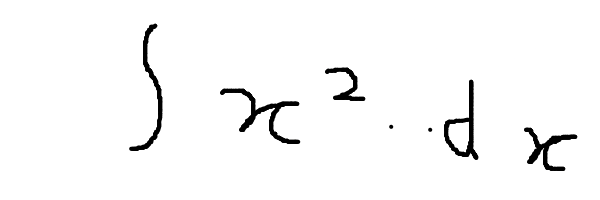
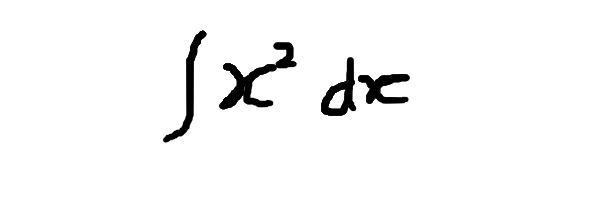
feat: Smoothing to the canvas

diff --git a/src/frontend/app.js b/src/frontend/app.js
@@ -45,47 +45,86 @@ const visualMathField = MQ.MathField(document.getElementById('visualMathEditor')
 });
 
 // ==========================================
-// 3. CANVAS DRAWING LOGIC (White Background is strictly required for OCR)
+// 3. CANVAS DRAWING LOGIC (Smooth Calligraphy & Accurate Pointer)
 // ==========================================
 function initCanvas() {
     ctx.fillStyle = "white";
     ctx.fillRect(0, 0, canvas.width, canvas.height);
-    ctx.lineWidth = 4;
-    ctx.lineCap = 'round';
-    ctx.strokeStyle = 'black';
 }
 initCanvas();
+
+let lastPos = null;
+
+// The vital math to fix the misaligned pointer
+function getPointerPos(e) {
+    const rect = canvas.getBoundingClientRect();
+    // Handle both mouse and touch seamlessly
+    const clientX = e.clientX || (e.touches && e.touches[0].clientX);
+    const clientY = e.clientY || (e.touches && e.touches[0].clientY);
+
+    // Map the CSS screen pixels to the internal Canvas pixels perfectly
+    const scaleX = canvas.width / rect.width;
+    const scaleY = canvas.height / rect.height;
+
+    return {
+        x: (clientX - rect.left) * scaleX,
+        y: (clientY - rect.top) * scaleY
+    };
+}
 
 canvas.addEventListener('mousedown', startPosition);
 canvas.addEventListener('mouseup', endPosition);
 canvas.addEventListener('mousemove', draw);
-// Touch support
-canvas.addEventListener('touchstart', (e) => { e.preventDefault(); startPosition(e.touches[0]); });
+// Touch support for mobile/tablets
+canvas.addEventListener('touchstart', (e) => { e.preventDefault(); startPosition(e); });
 canvas.addEventListener('touchend', (e) => { e.preventDefault(); endPosition(); });
-canvas.addEventListener('touchmove', (e) => { e.preventDefault(); draw(e.touches[0]); });
+canvas.addEventListener('touchmove', (e) => { e.preventDefault(); draw(e); });
 
 function startPosition(e) {
     isDrawing = true;
-    draw(e);
+    lastPos = getPointerPos(e);
+    
+    // Setup Calligraphy Ink Settings
+    ctx.lineWidth = 5;          // Thicker, bolder ink
+    ctx.lineCap = 'round';      // Rounded ends
+    ctx.lineJoin = 'round';     // Smooth corners
+    ctx.strokeStyle = '#000000';// Pure black
+    
+    // Optional: Add a microscopic shadow to mimic ink bleeding into the paper
+    ctx.shadowBlur = 1;
+    ctx.shadowColor = 'rgba(0,0,0,0.5)';
+    
+    ctx.beginPath();
+    ctx.moveTo(lastPos.x, lastPos.y);
 }
+
 function endPosition() {
     isDrawing = false;
-    ctx.beginPath();
+    lastPos = null;
 }
+
 function draw(e) {
     if (!isDrawing) return;
-    const rect = canvas.getBoundingClientRect();
-    const x = (e.clientX || e.pageX) - rect.left;
-    const y = (e.clientY || e.pageY) - rect.top;
-    ctx.lineTo(x, y);
+    
+    const currentPos = getPointerPos(e);
+    
+    // Calculate the midpoint between the last recorded position and current position
+    const midPoint = {
+        x: lastPos.x + (currentPos.x - lastPos.x) / 2,
+        y: lastPos.y + (currentPos.y - lastPos.y) / 2
+    };
+    
+    // Draw a smooth Bezier curve through the midpoint
+    ctx.quadraticCurveTo(lastPos.x, lastPos.y, midPoint.x, midPoint.y);
     ctx.stroke();
-    ctx.beginPath();
-    ctx.moveTo(x, y);
+    
+    // Update the last position to the current one
+    lastPos = currentPos;
 }
 
 clearBtn.addEventListener('click', initCanvas);
 
-// Tab Switching
+// Tab Switching (Keep your existing tab switching logic here!)
 tabDraw.addEventListener('click', () => {
     drawSection.classList.remove('hidden');
     uploadSection.classList.add('hidden');
@@ -103,6 +142,7 @@ tabUpload.addEventListener('click', () => {
     tabDraw.classList.add('text-gray-500');
     tabDraw.classList.remove('text-blue-600', 'border-b-2', 'border-blue-600');
 });
+
 
 // ==========================================
 // 4. API COMMUNICATION (Process & Solve)
@@ -152,6 +192,22 @@ processBtn.addEventListener('click', async () => {
 solveBtn.addEventListener('click', async () => {
     const currentLatex = visualMathField.latex(); 
     const currentDbId = dbId.innerText;
+
+    // ==========================================
+    // NEW: FORM VALIDATION (The "Required" Check)
+    // ==========================================
+    // 1. Check if the box is completely empty
+    if (!currentLatex || currentLatex.trim() === '') {
+        alert("The equation box is empty! Please draw or upload an equation first.");
+        return; // Stops the function from running
+    }
+
+    // 2. Check for empty LaTeX blocks (like an empty fraction \frac{}{} or exponent x^{})
+    if (currentLatex.includes('{}')) {
+        alert("Your equation has missing parts. Please fill in all empty blanks before solving.");
+        return; // Stops the function from running
+    }
+    // ==========================================
 
     solveBtn.innerText = "Solving...";
     solveBtn.disabled = true;
